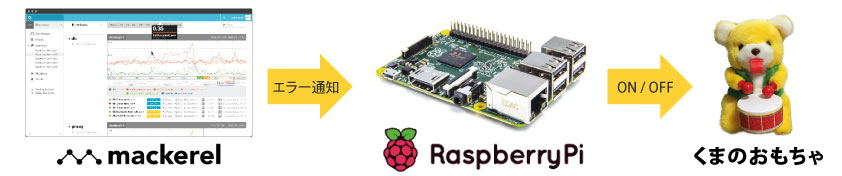
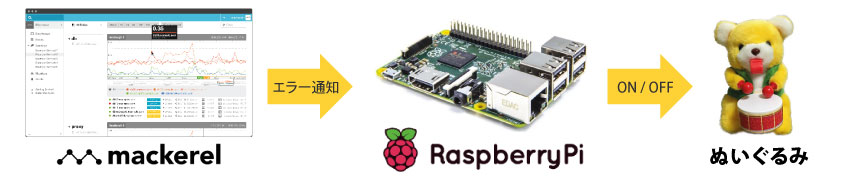
Automated commit at 2015-10-10 10:35:31 UTC by middleman-deploy 1.0.0

Changed region(s): [[0.8029, 0.8239, 0.9881, 0.9375]]

diff --git a/index.html b/index.html
@@ -51,13 +51,13 @@
 もうエラーがこわくない！！
 </div>
 <p>
-くまごろうはエラー発生時に起こる緊張感や殺伐とした空気を解消します。
+ゆるふあら〜とはエラー発生時に起こる緊張感や殺伐とした空気を解消します。
 <br>
 おどおどしいエラー音に代わって流れる軽やかな太鼓と笛のメロディはエンジニアの心をおだやかにします。
 <br>
-また、揺れるベルに代わって揺れるくまごろうの姿には愛するペットを守らなければという強い正義感の高揚をもたらすでしょう。
+また、揺れるベルに代わって揺れるゆるふあら〜との姿には愛するペットを守らなければという強い正義感の高揚をもたらすでしょう。
 <br>
-くまごろうはエンジニアのエラー対応はその存在意義、価値観そのものを変えていきます。
+ゆるふあら〜とはエンジニアのエラー対応はその存在意義、価値観そのものを変えていきます。
 </p>
 </div>
 <div class='col-sm-3'>
@@ -83,7 +83,7 @@
 <div class='text-center'>
 <img style="width: 90%; box-shadow: 1px 1px 1px rgba(0,0,0,0.2); margin-bottom: 20px;" src="/kumagoro/images/bear.jpg" />
 <p>
-② くまのおもちゃが揺れます
+② ぬいぐるみが揺れます
 </p>
 </div>
 </div>
@@ -117,11 +117,11 @@
 <small>（30代・Webエンジニア）</small>
 </h3>
 <p>
-くまごろうが来る前は毎日のようにエラーに追われていて、対応しても鳴り止まないアラート音がトラウマになって、休みの日でもアラート音の幻聴が聴こえるくらい追い詰められていました。
+ゆるふあら〜とが来る前は毎日のようにエラーに追われていて、対応しても鳴り止まないアラート音がトラウマになって、休みの日でもアラート音の幻聴が聴こえるくらい追い詰められていました。
 <br>
-でもくまごろうが来てからは、エラーが起きてもくまごろうの演奏で和やかな気持ちになりながらエラー対応をすることが出来るようになりました。
+でもゆるふあら〜とが来てからは、エラーが起きてもゆるふあら〜との演奏で和やかな気持ちになりながらエラー対応をすることが出来るようになりました。
 <br>
-おかげさまで、最近はめっきりくまごろうが揺れることも減りましたが…ちょっとさびしいので、内心「ときどきエラーが起きないかな」と期待してたりします(笑)
+おかげさまで、最近はめっきりゆるふあら〜とが揺れることも減りましたが…ちょっとさびしいので、内心「ときどきエラーが起きないかな」と期待してたりします(笑)
 </p>
 </div>
 </div>
@@ -141,9 +141,9 @@
 <p>
 保守運用エンジニアをしているのですが、エラーが起きると職場の雰囲気がすごくピリピリして落ち着いて作業ができない状態になっていました。
 <br>
-しかしくまごろうが来てからは職場の雰囲気が大きく変わり、エラーが起きても和んだ雰囲気の中落ち着いてエラー対応ができるようになりました。
+しかしゆるふあら〜とが来てからは職場の雰囲気が大きく変わり、エラーが起きても和んだ雰囲気の中落ち着いてエラー対応ができるようになりました。
 <br>
-落ち着いてエラー対応できるようになったことでデグレードが減り、品質が向上したことで、今ではお客様から感謝の言葉をいただくことが多くなりました。これも全部くまごろうのおかげです。
+落ち着いてエラー対応できるようになったことでデグレードが減り、品質が向上したことで、今ではお客様から感謝の言葉をいただくことが多くなりました。これも全部ゆるふあら〜とのおかげです。
 </p>
 </div>
 </div>
@@ -151,7 +151,7 @@
 <div class='col-sm-12'>
 <h2>
 <img src="/kumagoro/images/teddy_bear.png" />
-くまごろうの仕組み
+ゆるふあら〜との仕組み
 </h2>
 </div>
 <div class='col-sm-12 text-center'>
@@ -162,10 +162,10 @@
 <div class='col-sm-12'>
 <h2>
 <img src="/kumagoro/images/teddy_bear.png" />
-くまごろう製作秘話
+ゆるふあら〜と製作秘話
 </h2>
 <p>
-ゆるふわポップなくまごろう。しかしそのゆるさのウラには知られざる製作ドラマがあった…
+ゆるふわポップなゆるふあら〜と。しかしそのゆるさのウラには知られざる製作ドラマがあった…
 </p>
 <p class='text-center'>
 <strong>coming soon</strong>
